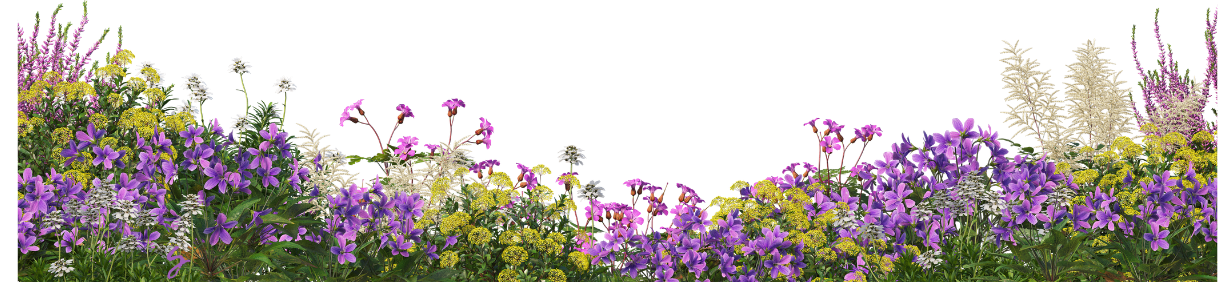
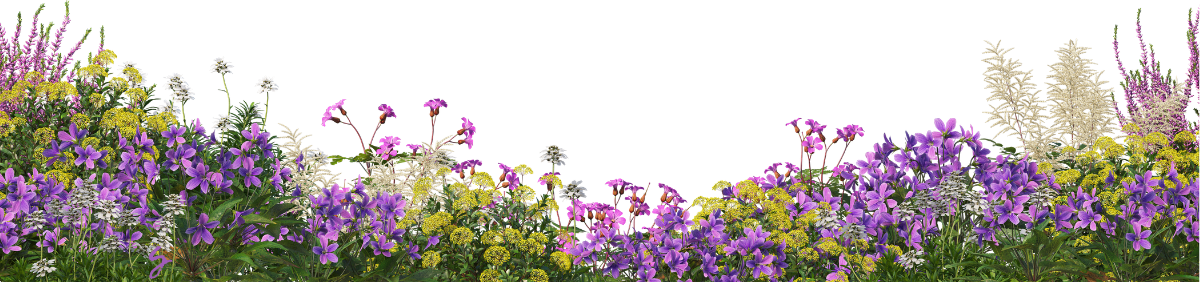
add new flower at the background

diff --git a/src/views/CoverPage.css b/src/views/CoverPage.css
@@ -14,11 +14,9 @@
   width: 100%;
   overflow-x: hidden;
 
-  /* Layered watercolor parchment */
+  /* Dreamy watercolor wedding canvas backdrop */
   background:
-    radial-gradient(ellipse 90% 55% at 50% 26%, rgba(241,215,200,0.55) 0%, transparent 65%),
-    radial-gradient(ellipse 60% 45% at 14% 80%, rgba(200,220,210,0.32) 0%, transparent 55%),
-    radial-gradient(ellipse 60% 45% at 86% 80%, rgba(185,175,215,0.28) 0%, transparent 55%),
+    url('@/assets/wedding_page_bg.jpg') center top / cover no-repeat,
     linear-gradient(175deg, #fdf5ec 0%, #f9eddf 30%, #fbeee4 60%, #f4e8d8 100%);
 }
 
@@ -353,7 +351,8 @@ position: absolute;
   pointer-events: none;
   z-index: 2;
   line-height: 0;
-  margin-top: 0;
+  margin-top: auto;
+  margin-bottom: -4px;
 }
 
 .bottom-bg-img {
@@ -364,6 +363,7 @@ position: absolute;
   display: block;
   object-fit: cover;
   object-position: bottom;
+  margin-bottom: -2px;
   filter: drop-shadow(0 -4px 16px rgba(200, 140, 120, 0.24));
 }
 
@@ -386,12 +386,12 @@ position: absolute;
 }
 
 .side-edge-flower-left {
-  left: clamp(-10px, -2vw, -2px);
+  left: clamp(-18px, -4vw, -8px);
   animation: sideEdgeSwayLeft 8.2s cubic-bezier(0.42, 0, 0.58, 1) infinite;
 }
 
 .side-edge-flower-right {
-  right: clamp(-10px, -2vw, -2px);
+  right: clamp(-18px, -4vw, -8px);
   transform: scaleX(-1);
   animation: sideEdgeSwayRight 7.6s cubic-bezier(0.42, 0, 0.58, 1) infinite;
 }
@@ -410,12 +410,12 @@ position: absolute;
 }
 
 .bottom-right-pillar-flower {
-  right: clamp(-18px, -4vw, -8px);
+  right: clamp(-20px, -4.5vw, -10px);
   animation: none;
 }
 
 .bottom-left-pillar-flower {
-  left: clamp(-18px, -4vw, -8px);
+  left: clamp(-20px, -4.5vw, -10px);
   transform: scaleX(-1);
   animation: none;
 }
@@ -425,22 +425,18 @@ position: absolute;
 .bottom-purple-flower1 {
   position: absolute;
   bottom: clamp(24px, 7.5vw, 68px);
-  width: clamp(90px, 24vw, 200px);
+  width: clamp(94px, 25vw, 205px);
   height: auto;
   pointer-events: none;
   z-index: 3;
-  -webkit-mask-image: linear-gradient(to right, transparent 0%, black 16%, black 100%),
-                      linear-gradient(to bottom, transparent 0%, black 12%, black 100%);
-  -webkit-mask-composite: source-in;
-  mask-image: linear-gradient(to right, transparent 0%, black 16%, black 100%);
 }
 
 .bottom-purple-flower {
-  right: 0;
+  right: clamp(-16px, -3.5vw, -8px);
 }
 
 .bottom-purple-flower1 {
-  left: 0;
+  left: clamp(-16px, -3.5vw, -8px);
   transform: scaleX(-1);
 }
 
@@ -448,23 +444,19 @@ position: absolute;
 .purple-flower-bouquet,
 .purple-flower-bouquet1 {
   position: absolute;
-  bottom: 0px;
-  width: clamp(75px, 20vw, 165px);
+  bottom: -2px;
+  width: clamp(80px, 21vw, 170px);
   height: auto;
   pointer-events: none;
   z-index: 3;
-  -webkit-mask-image: linear-gradient(to right, transparent 0%, black 16%, black 100%),
-                      linear-gradient(to bottom, transparent 0%, black 12%, black 100%);
-  -webkit-mask-composite: source-in;
-  mask-image: linear-gradient(to right, transparent 0%, black 16%, black 100%);
 }
 
 .purple-flower-bouquet {
-  right: 0;
+  right: clamp(-12px, -2.8vw, -5px);
 }
 
 .purple-flower-bouquet1 {
-  left: 0;
+  left: clamp(-12px, -2.8vw, -5px);
   transform: scaleX(-1);
 }
 
